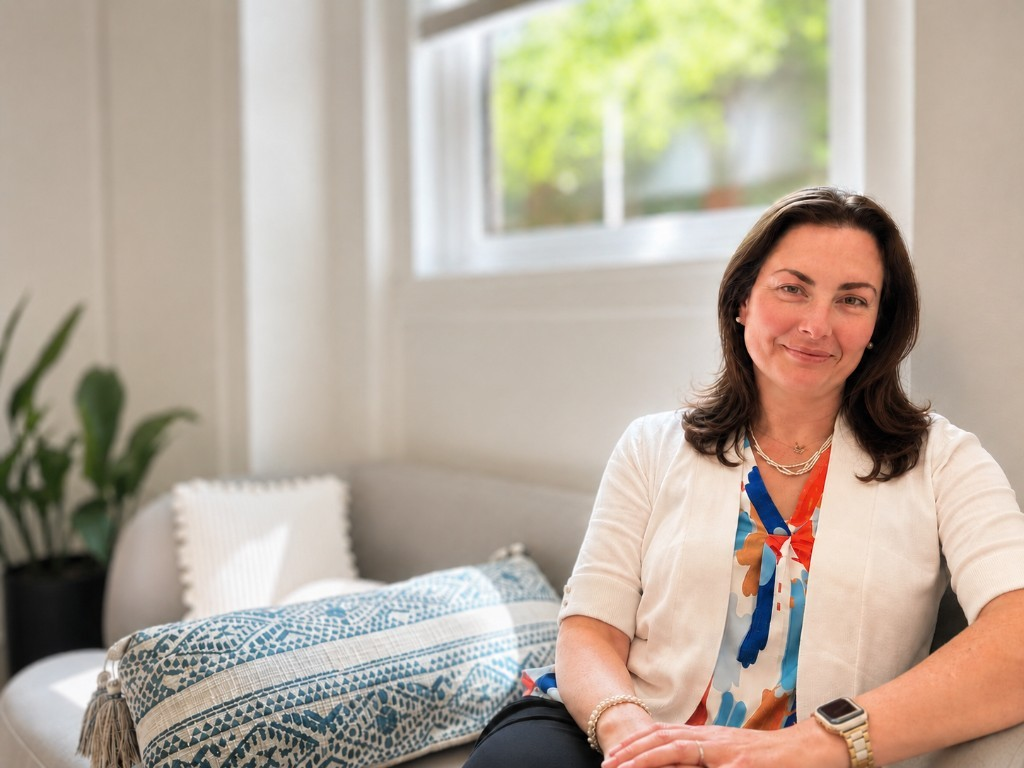
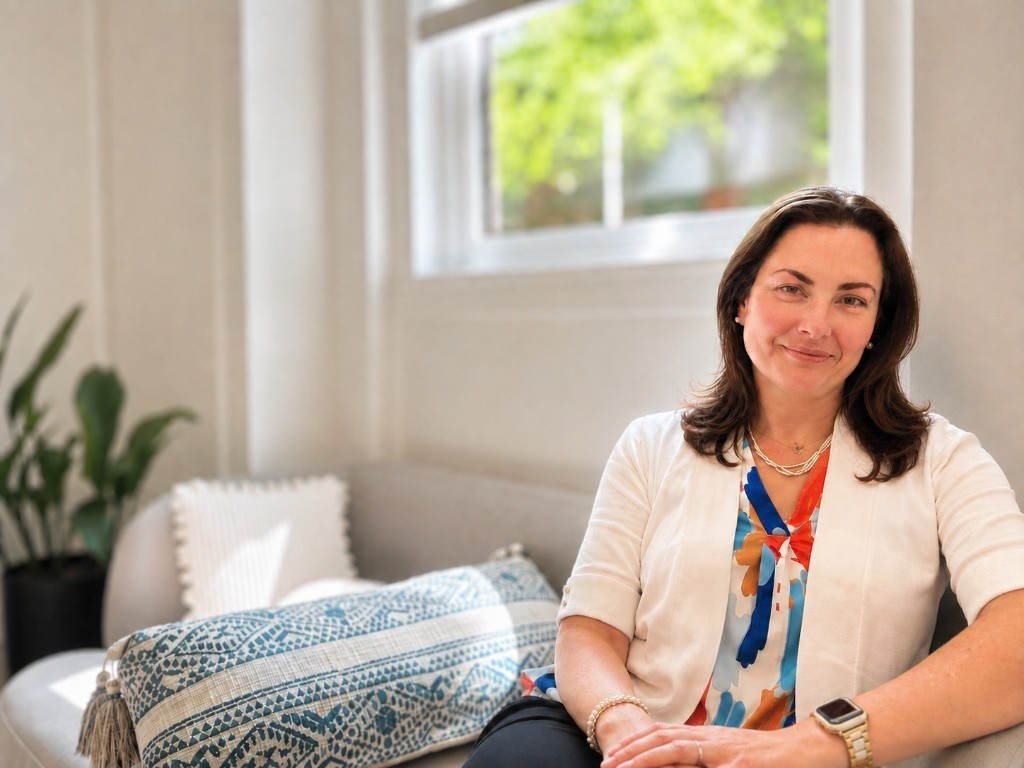
update quote image

diff --git a/src/styles.css b/src/styles.css
@@ -124,14 +124,15 @@ button, input, textarea { font: inherit; }
 .step p { margin:5px 0 0; color:#647075; font-size:.9rem; }
 
 .quote-section { position:relative; overflow:hidden; background:#f3ede5; }
-.quote-grid { display:grid; grid-template-columns:1.15fr .95fr; min-height:320px; align-items:stretch; position:relative; z-index:1; }
+.quote-grid { display:grid; grid-template-columns:1.15fr .95fr; min-height:380px; align-items:stretch; position:relative; z-index:1; }
 .quote { padding:48px 40px 48px 24px; display:grid; grid-template-columns:50px 1fr; gap:22px; align-self:center; position:relative; z-index:2; }
 .quote-mark { font-family:Georgia,serif; color:var(--sage); font-size:5rem; line-height:.6; }
 .quote blockquote { margin:0; font-family:var(--serif); font-style:italic; font-size:1.7rem; line-height:1.2; color:#42545a; }
 .quote cite { display:block; margin-top:15px; font-family:var(--sans); font-style:normal; font-size:.8rem; }
-.quote-image { position:relative; align-self:stretch; min-height:320px; margin-left:-90px; margin-right:calc(-1 * max(24px, (100vw - var(--max)) / 2)); }
-.quote-image img { position:absolute; inset:0; width:100%; height:100%; object-fit:cover; object-position:68% center; }
-.quote-image::before { content:""; position:absolute; inset:0; z-index:1; pointer-events:none; background:linear-gradient(90deg,#f3ede5 0 18%,rgba(243,237,229,.55) 38%,transparent 62%); }
+.quote-image { position:relative; align-self:stretch; min-height:380px; margin-left:-90px; margin-right:calc(-1 * max(24px, (100vw - var(--max)) / 2)); }
+.quote-image img { position:absolute; inset:0; width:100%; height:100%; object-fit:cover; object-position:22% 48%; }
+/* Dissolve the photo into the cream quote column, matching the hero treatment. */
+.quote-image::before { content:""; position:absolute; inset:0; z-index:1; pointer-events:none; background:linear-gradient(90deg, #f3ede5 0%, rgba(243,237,229,.72) 12%, rgba(243,237,229,.28) 28%, rgba(243,237,229,0) 48%); }
 
 .cta { padding:60px 0; background:#eef3ea; position:relative; overflow:hidden; text-align:center; }
 .cta-branch { position:absolute; left:-12px; top:50%; transform:translateY(-50%); width:min(280px,32vw); pointer-events:none; z-index:0; }
@@ -227,7 +228,7 @@ button, input, textarea { font: inherit; }
   .quote-section { background:#f3ede5; }
   .quote { padding:42px 0; }
   .quote-image { position:relative; min-height:230px; height:230px; margin-left:0; margin-right:-16px; }
-  .quote-image img { position:absolute; inset:0; }
+  .quote-image img { position:absolute; inset:0; object-position:24% 50%; }
   .quote-image::before { background:linear-gradient(180deg,#f3ede5 0%,transparent 42%); }
   .cta-grid > :first-child, .cta-actions { grid-column:auto; justify-self:center; }
   .footer-bottom { flex-direction:column; }

diff --git a/src/pages/Home.jsx b/src/pages/Home.jsx
@@ -69,7 +69,7 @@ export default function Home() {
     <section className="quote-section">
       <div className="container quote-grid">
         <div className="quote"><div className="quote-mark">“</div><div><blockquote>My goal isn’t simply to help you feel better during our sessions. It’s to help you develop the understanding and skills that allow you to create meaningful change in your life.</blockquote><cite>— Dr. Karen Teel</cite></div></div>
-        <div className="quote-image"><img src="/assets/plant-books.png" alt="Eucalyptus branches beside a stack of books" /></div>
+        <div className="quote-image"><img src="/assets/quote-plant.jpg" alt="A leafy plant beside a sunlit couch in the office" /></div>
       </div>
     </section>
 
